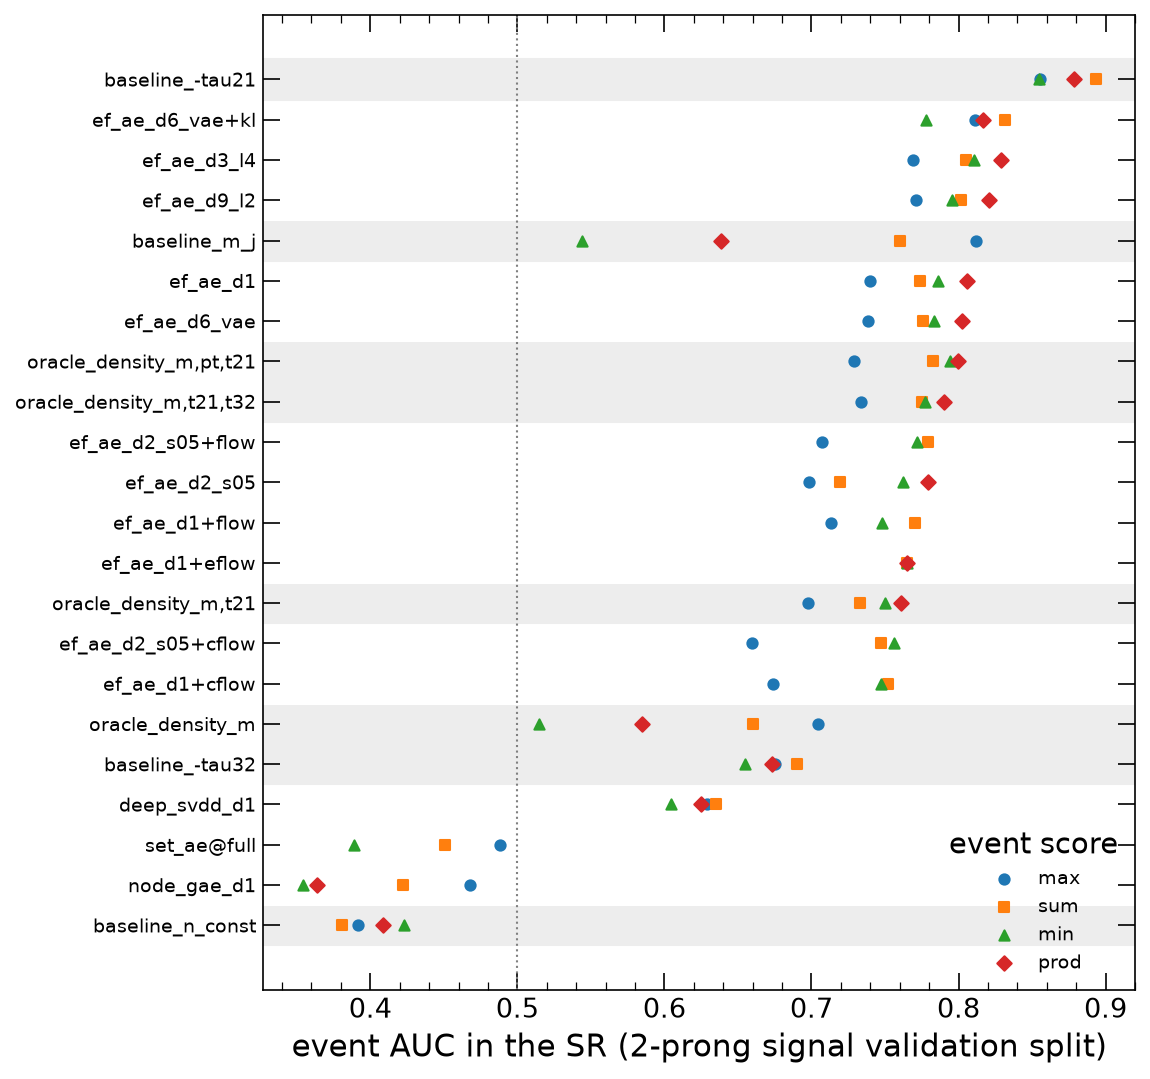
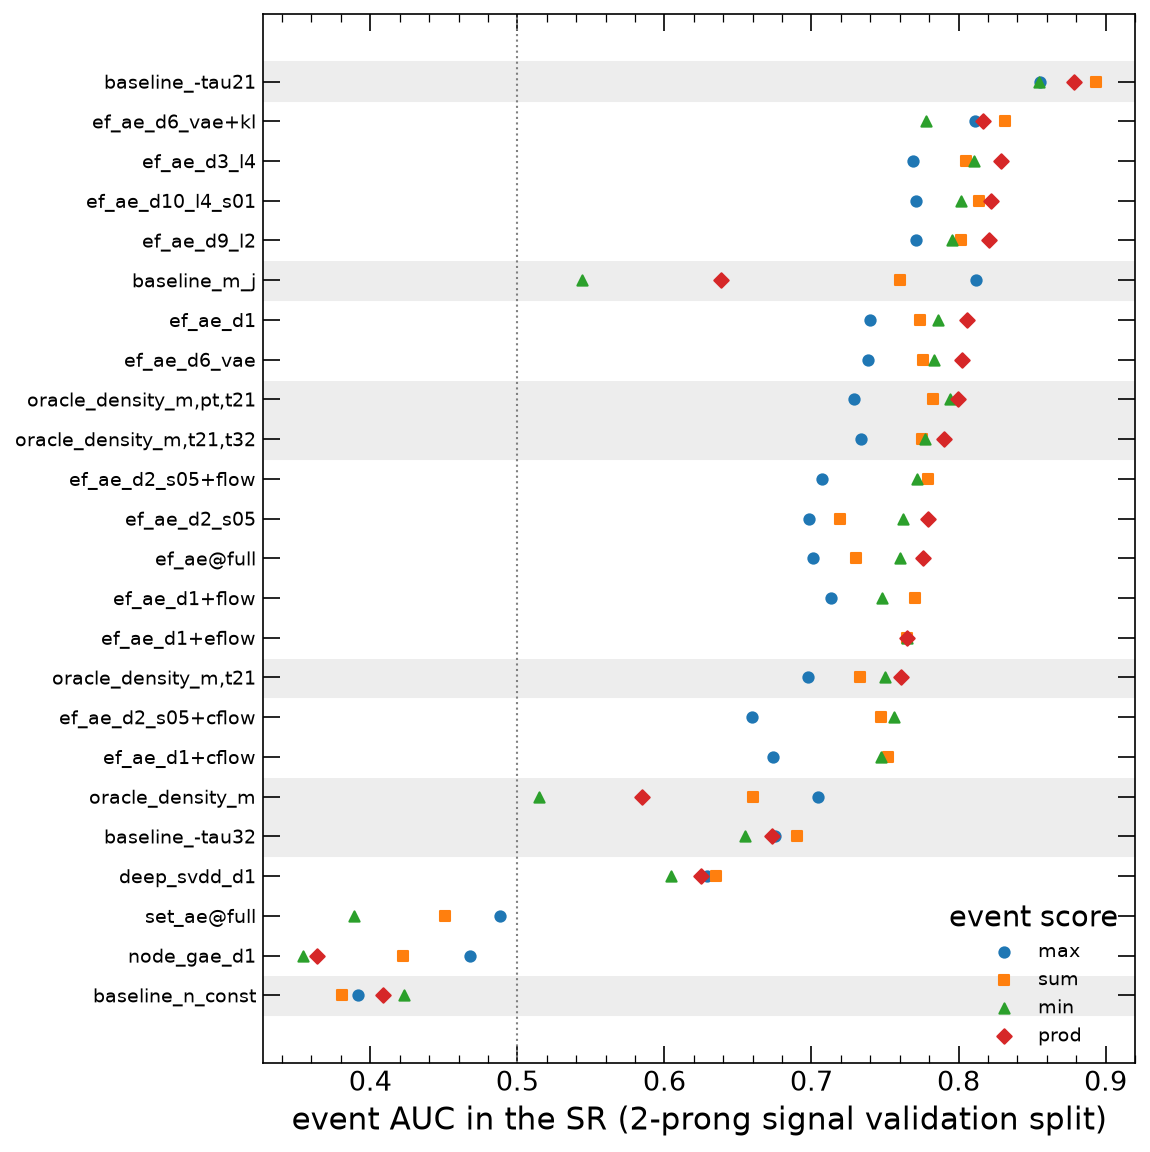
Dev: finer 0.01 kernel at latent 4 gives no gain (0.822 vs 0.829)
Claude-Session: https://claude.ai/code/session_01N1J7uoePiv8deXrt4FjrmS

diff --git a/results/dev/summary.md b/results/dev/summary.md
@@ -9,10 +9,12 @@ AUC / max SIC in the signal region (3.3-3.7 TeV) for event scores max/sum/min ov
 | baseline_m_j | 0.812 / 1.91 | 0.760 / 1.67 | 0.544 / 1.21 | 0.639 / 1.33 | 0.617 | 0.812 | 0.544 | +1.00 | +0.78 | -0.44 | 0 |
 | baseline_n_const | 0.391 / 1.01 | 0.381 / 1.01 | 0.423 / 1.01 | 0.408 / 1.01 | 0.424 | 0.424 | 0.409 | +0.78 | +1.00 | -0.14 | 0 |
 | deep_svdd_d1 | 0.629 / 1.06 | 0.635 / 1.06 | 0.605 / 1.01 | 0.625 / 1.04 | 0.597 | 0.652 | 0.546 | +0.43 | +0.31 | -0.31 | 13 |
+| ef_ae@full | 0.701 / 1.20 | 0.730 / 1.26 | 0.760 / 1.33 | 0.776 / 1.40 | 0.687 | 0.698 | 0.731 | +0.78 | +0.73 | -0.42 | 80 |
 | ef_ae_d1 | 0.740 / 1.26 | 0.774 / 1.37 | 0.786 / 1.42 | 0.805 / 1.50 | 0.713 | 0.745 | 0.747 | +0.76 | +0.64 | -0.52 | 17 |
 | ef_ae_d1+cflow | 0.674 / 1.17 | 0.752 / 1.34 | 0.747 / 1.33 | – | 0.671 | 0.671 | 0.724 | +0.80 | +0.70 | -0.42 | 0 |
 | ef_ae_d1+eflow | 0.765 / 1.41 | 0.765 / 1.41 | 0.765 / 1.41 | 0.765 / 1.41 | 0.765 | 0.765 | 0.765 | +0.58 | +0.49 | -0.35 | 0 |
 | ef_ae_d1+flow | 0.714 / 1.24 | 0.770 / 1.41 | 0.748 / 1.35 | – | 0.683 | 0.718 | 0.722 | +0.83 | +0.71 | -0.48 | 0 |
+| ef_ae_d10_l4_s01 | 0.771 / 1.30 | 0.814 / 1.46 | 0.802 / 1.42 | 0.822 / 1.51 | 0.739 | 0.765 | 0.756 | +0.63 | +0.48 | -0.57 | 18 |
 | ef_ae_d2_s05 | 0.698 / 1.24 | 0.720 / 1.29 | 0.762 / 1.36 | 0.779 / 1.45 | 0.685 | 0.703 | 0.738 | +0.84 | +0.74 | -0.48 | 16 |
 | ef_ae_d2_s05+cflow | 0.660 / 1.16 | 0.747 / 1.33 | 0.756 / 1.35 | – | 0.670 | 0.644 | 0.740 | +0.82 | +0.72 | -0.41 | 0 |
 | ef_ae_d2_s05+flow | 0.707 / 1.25 | 0.779 / 1.43 | 0.772 / 1.40 | – | 0.695 | 0.702 | 0.753 | +0.85 | +0.73 | -0.47 | 0 |

diff --git a/RESULTS.md b/RESULTS.md
@@ -144,8 +144,8 @@ The same unsupervised score that is moderate on the 2-prong signal is as good as
 observable on the 3-prong signal (−τ32: 0.854; −τ21 only 0.682), and it barely sculpts the m_jj spectrum
 (JSD 0.010 at ε_B = 1 % for max, 0.008 for prod, versus 0.251 for a jet-mass cut).
 
-Sweep (dev, short budget): latent 2 → 0.821 (prod), finer kernels at latent 4 / mass-conditioned decoder:
-*pending*.  **VAE**: making the latent variational (β = 10⁻³, latent 8) leaves the reconstruction score
+Sweep (dev, short budget): latent 2 → 0.821 (prod); adding a 0.01 kernel at latent 4 → 0.822 (no gain
+over 0.829); mass-conditioned decoder: *pending*.  **VAE**: making the latent variational (β = 10⁻³, latent 8) leaves the reconstruction score
 unchanged (0.803) and adds the per-jet KL divergence of the posterior as a second, density-like score:
 0.811 / 0.832 / 0.778 / 0.817 (max / sum / min / prod; heavier jet 0.810).  An equal-weight rank
 ensemble of the two (sum of per-jet background log-CDFs) gives 0.839 (prod), max SIC 1.70.
